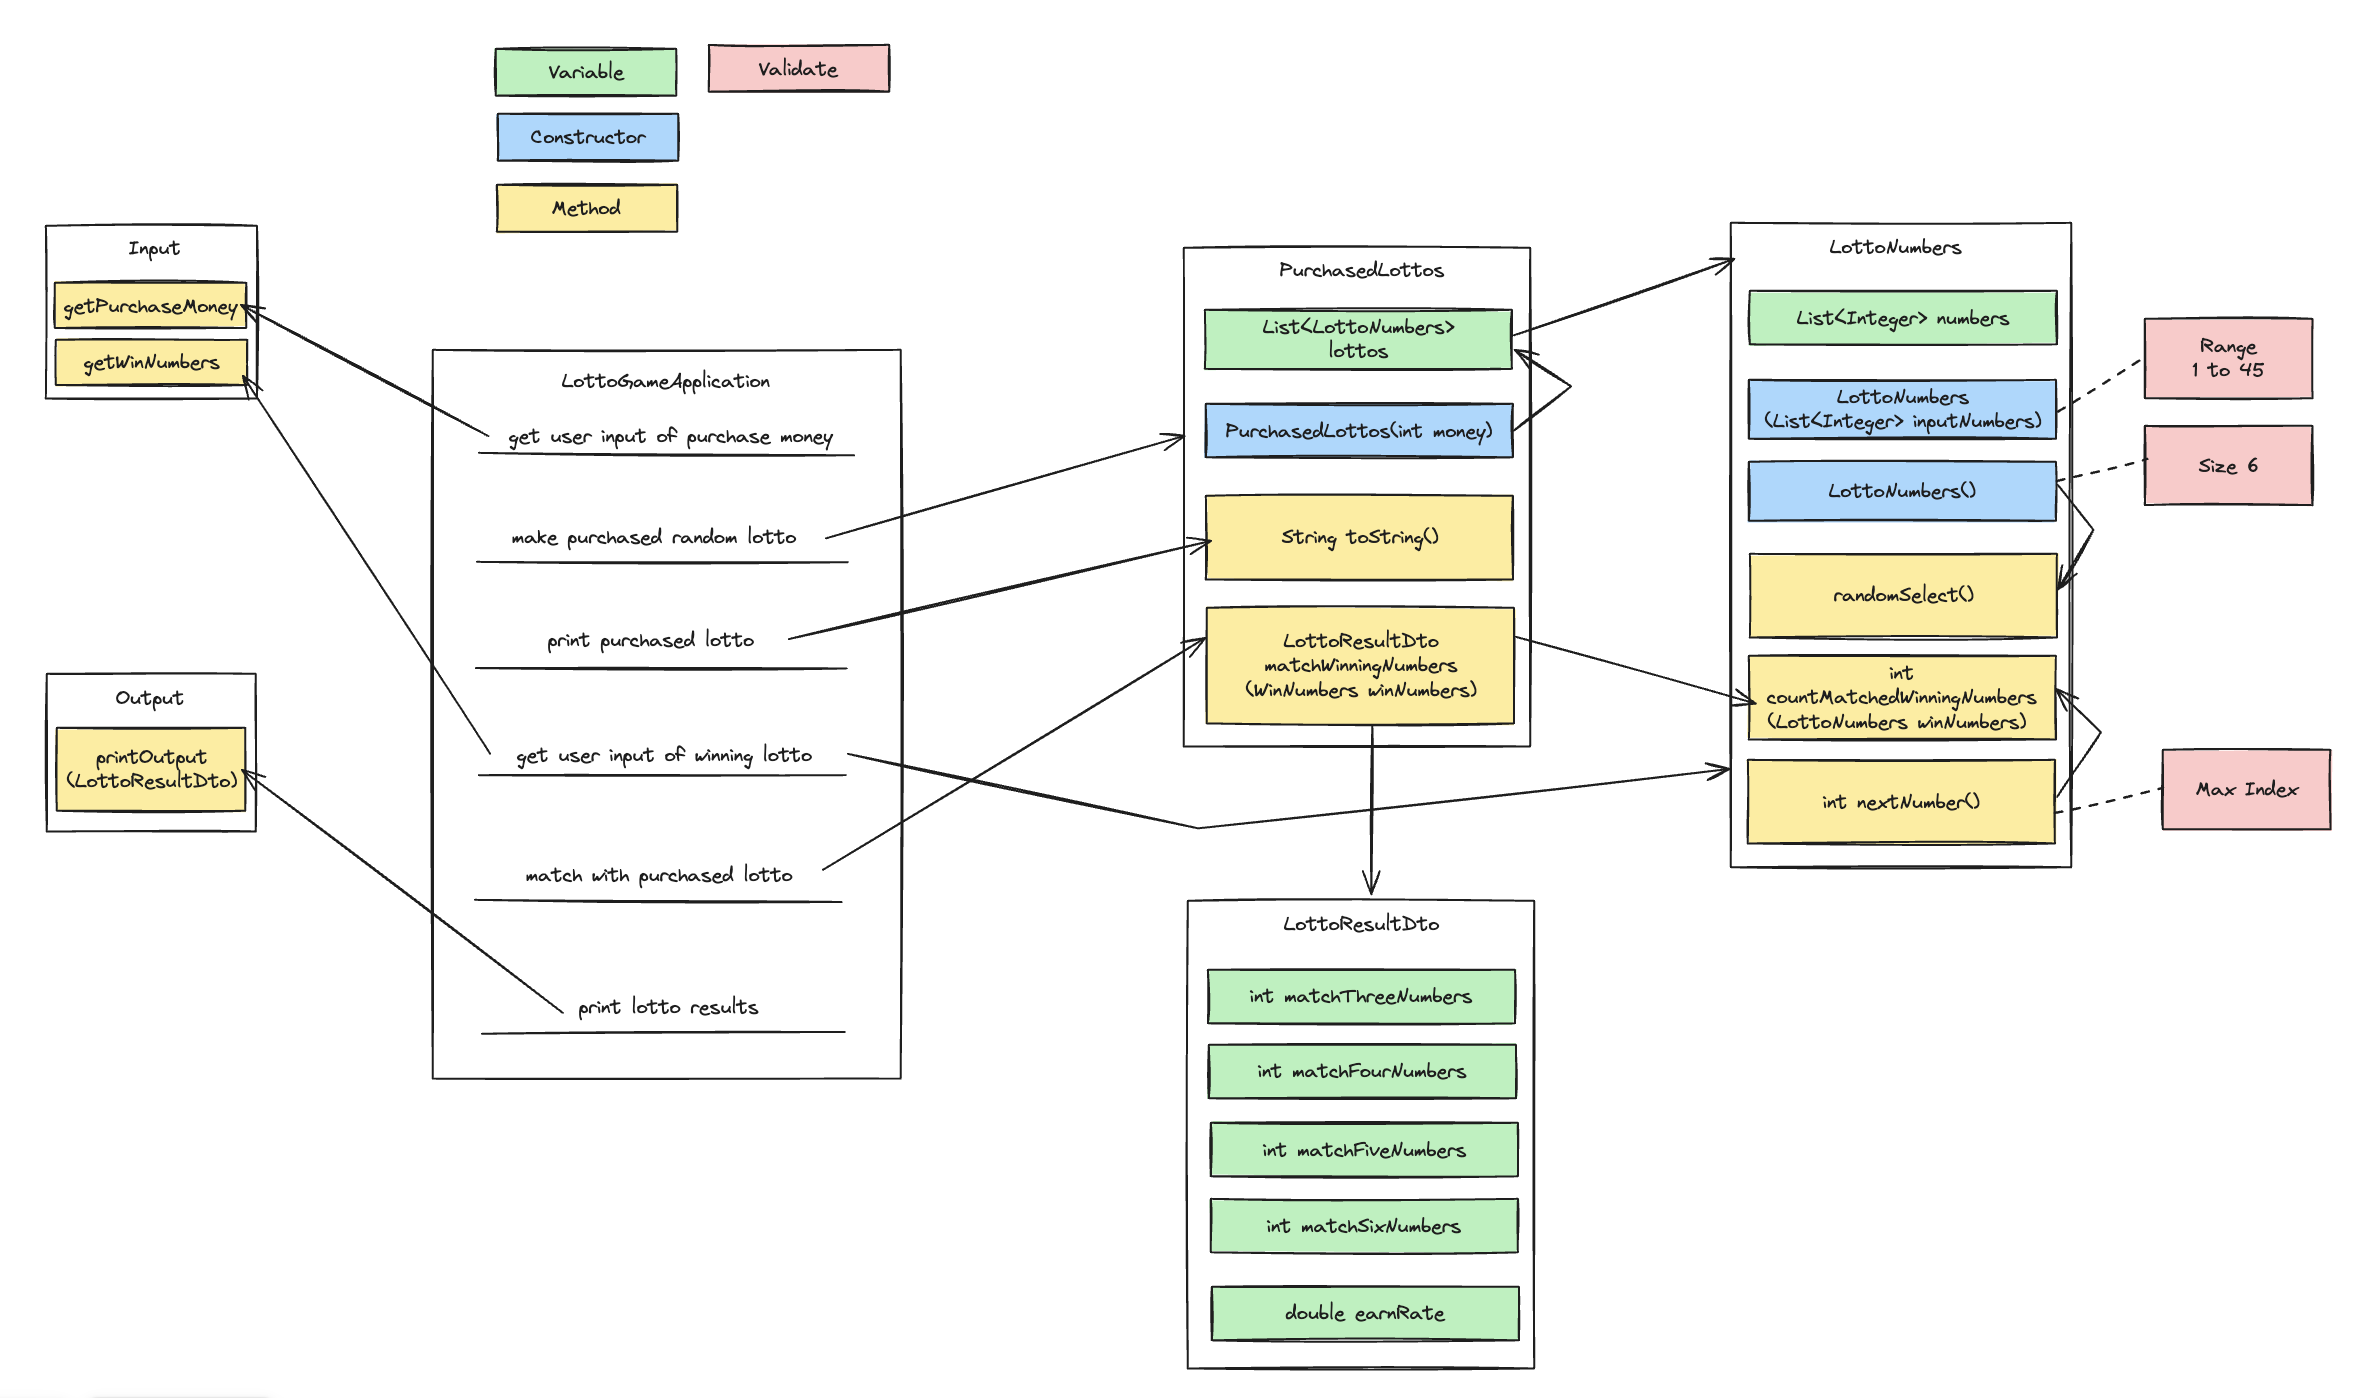
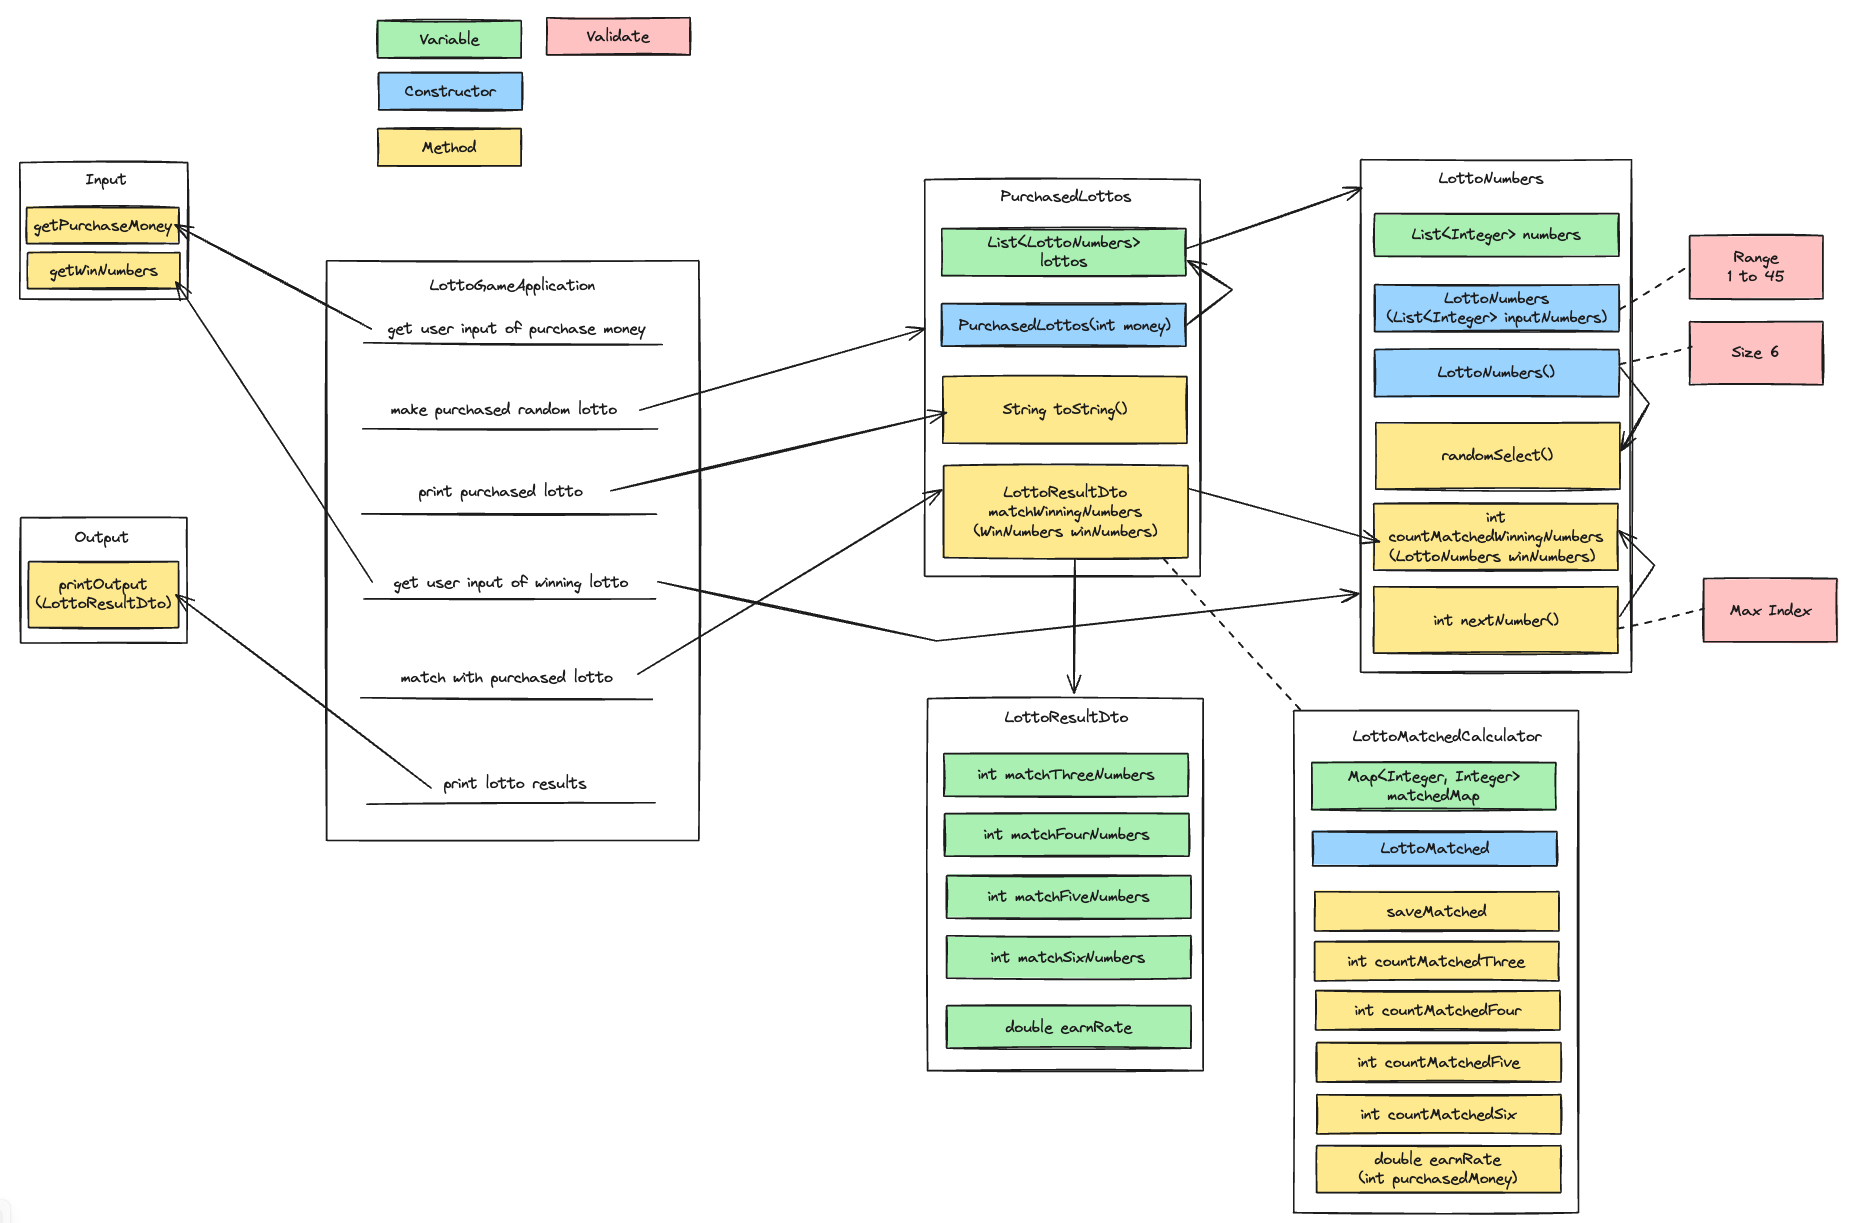
refactor, feat: 기존 코드 리팩토링, LottoMatchedCalculator 기능 추가

diff --git a/src/main/java/lotto/domain/LottoNumbers.java b/src/main/java/lotto/domain/LottoNumbers.java
@@ -1,6 +1,7 @@
 package lotto.domain;
 
 import lotto.Exception.ReachedMaxIndexException;
+import lotto.util.ConstUtils;
 
 import java.util.ArrayList;
 import java.util.List;
@@ -9,10 +10,17 @@ import java.util.stream.Stream;
 
 public class LottoNumbers {
 
-    public static final int MAXIMUM_LOTTO_RANGE = 45;
-    public static final int MINIMUM_LOTTO_RANGE = 1;
     private final List<Integer> lottoNumbers;
     private int currentIndex = 0;
+
+    public LottoNumbers() {
+        this.lottoNumbers = new ArrayList<>();
+
+        Random random = new Random();
+        for (int i = 0; i < 6; i++) {
+            lottoNumbers.add(selectLottoNumber(random));
+        }
+    }
 
     public LottoNumbers(List<Integer> manualNumbers) {
         manualNumbers.forEach(this::validateLottoNumberRange);
@@ -20,55 +28,57 @@ public class LottoNumbers {
         this.lottoNumbers = manualNumbers;
     }
 
-    public LottoNumbers() {
-        lottoNumbers = new ArrayList<>();
-
-        Random random = new Random();
-        for (int i = 0; i < 6; i++) {
-            lottoNumbers.add(random.nextInt(MAXIMUM_LOTTO_RANGE) + 1);
+    public int nextNumber() {
+        if (isOutOfIndexOfLottoNumbers()) {
+            throw new ReachedMaxIndexException();
         }
+        return lottoNumbers.get(this.currentIndex++);
+    }
+
+    public int countMatchedWinningNumbers(LottoNumbers winningNumbers) {
+        winningNumbers.scanReset();
+        int matchCount = 0;
+
+        for (int i = 0; i < 6; i++) {
+            int winningNumber = winningNumbers.nextNumber();
+            matchCount += matchesLottoNumber(winningNumber);
+        }
+
+        return matchCount;
     }
 
     public Stream<Integer> stream() {
         return lottoNumbers.stream();
     }
 
-    public int nextNumber() {
-        if (isOutOfIndexOfLottoNumbers()) {
-            throw new ReachedMaxIndexException();
-        }
-        return lottoNumbers.get(currentIndex++);
-    }
-
     public void scanReset() {
         this.currentIndex = 0;
     }
 
-    private boolean isOutOfIndexOfLottoNumbers() {
-        return currentIndex == lottoNumbers.size();
+    @Override
+    public String toString() {
+        return this.lottoNumbers.toString();
     }
 
-    public int countMatchedWinningNumbers(LottoNumbers winningNumbers) {
-        int matchCount = 0;
-
-        for (int i = 0; i < 6; i++) {
-            int winningNumber = winningNumbers.nextNumber();
-            if (lottoNumbers.contains(winningNumber)) {
-                matchCount++;
-            }
-        }
-
-        return matchCount;
+    private int selectLottoNumber(Random random) {
+        return random.nextInt(ConstUtils.MAXIMUM_LOTTO_RANGE) + 1;
     }
 
     private void validateLottoNumberRange(int number) {
-        if (number < MINIMUM_LOTTO_RANGE || number > MAXIMUM_LOTTO_RANGE) {
+        if (number < ConstUtils.MINIMUM_LOTTO_RANGE || number > ConstUtils.MAXIMUM_LOTTO_RANGE) {
             throw new IllegalArgumentException("유효한 로또 번호가 아닙니다. 1~45 숫자중 입력 해 주세요.");
         }
     }
 
-    @Override
-    public String toString() {
-        return lottoNumbers.toString();
+    private boolean isOutOfIndexOfLottoNumbers() {
+        return currentIndex == this.lottoNumbers.size();
+    }
+
+    private int matchesLottoNumber(int winningNumber) {
+        if (this.lottoNumbers.contains(winningNumber)) {
+            return ConstUtils.MATCHED_COUNT;
+        }
+
+        return ConstUtils.NOT_MATCHED_COUNT;
     }
 }

diff --git a/src/main/java/lotto/domain/PurchasedLotto.java b/src/main/java/lotto/domain/PurchasedLotto.java
@@ -1,62 +1,51 @@
 package lotto.domain;
 
 import lotto.dto.LottoResultDto;
+import lotto.util.ConstUtils;
 
 import java.util.ArrayList;
-import java.util.HashMap;
 import java.util.List;
-import java.util.Map;
 
 public class PurchasedLotto {
 
-    private final List<LottoNumbers> lottos = new ArrayList<>();
+    private final List<LottoNumbers> lottos;
 
     public PurchasedLotto(int purchasedCount) {
+        this.lottos = new ArrayList<>();
+
         for (int i = 0; i < purchasedCount; i++) {
-            lottos.add(new LottoNumbers());
+            this.lottos.add(new LottoNumbers());
         }
     }
 
     public PurchasedLotto(int purchasedCount, List<LottoNumbers> manualLottoNumbers) {
-        if (purchasedCount != manualLottoNumbers.size()) {
-            throw new IllegalArgumentException("구매 개수와 수동 개수가 일치하지 않습니다.");
-        }
+        validatePurchasedAndManualCount(purchasedCount, manualLottoNumbers);
+
+        this.lottos = new ArrayList<>();
 
         for (int i = 0; i < purchasedCount; i++) {
             this.lottos.add(manualLottoNumbers.get(i));
         }
     }
 
-    public int myLottoSize() {
+    public int purchasedLottoSize() {
         return this.lottos.size();
     }
 
     public LottoResultDto matchWinningNumbers(LottoNumbers winningNumbers) {
-        Map<Integer, Integer> matchedCount = new HashMap<>();
-        matchedCount.put(3, 0);
-        matchedCount.put(4, 0);
-        matchedCount.put(5, 0);
-        matchedCount.put(6, 0);
-        double earnRate = 0L;
+        LottoMatchedCalculator lottoMatchedCalculator = new LottoMatchedCalculator();
 
         for (LottoNumbers lotto : this.lottos) {
             int result = lotto.countMatchedWinningNumbers(winningNumbers);
-            winningNumbers.scanReset();
-            matchedCount.put(result, matchedCount.get(result) + 1);
+            lottoMatchedCalculator.saveMatched(result);
         }
 
-        int sum = matchedCount.get(3) * 5000 +
-                matchedCount.get(4) * 50000 +
-                matchedCount.get(5) * 1500000 +
-                matchedCount.get(6) * 2000000000;
-        earnRate = (double) sum / (this.lottos.size() * 1000);
-
         return new LottoResultDto(
-                matchedCount.get(3),
-                matchedCount.get(4),
-                matchedCount.get(5),
-                matchedCount.get(6),
-                earnRate
+                lottoMatchedCalculator.countMatchedThree(),
+                lottoMatchedCalculator.countMatchedFour(),
+                lottoMatchedCalculator.countMatchedFive(),
+                lottoMatchedCalculator.countMatchedSix(),
+                lottoMatchedCalculator.earnRate(purchasedLottoPrice())
         );
     }
 
@@ -65,5 +54,15 @@ public class PurchasedLotto {
         StringBuffer stringBuffer = new StringBuffer();
         lottos.forEach(lotto -> stringBuffer.append(lotto.toString()).append("\n"));
         return stringBuffer.toString();
+    }
+
+    private static void validatePurchasedAndManualCount(int purchasedCount, List<LottoNumbers> manualLottoNumbers) {
+        if (purchasedCount != manualLottoNumbers.size()) {
+            throw new IllegalArgumentException("구매 개수와 수동 개수가 일치하지 않습니다.");
+        }
+    }
+
+    private int purchasedLottoPrice() {
+        return this.lottos.size() * ConstUtils.LOTTO_WON_UNIT;
     }
 }

diff --git a/src/main/java/lotto/domain/LottoMatchedCalculator.java b/src/main/java/lotto/domain/LottoMatchedCalculator.java
@@ -1,0 +1,49 @@
+package lotto.domain;
+
+import lotto.util.ConstUtils;
+
+import java.util.HashMap;
+import java.util.Map;
+
+public class LottoMatchedCalculator {
+
+    private final Map<Integer, Integer> matchedMap = new HashMap<>();
+
+    public LottoMatchedCalculator() {
+        this.matchedMap.put(ConstUtils.MATCHED_THREE, ConstUtils.NOTHING_MATCHED);
+        this.matchedMap.put(ConstUtils.MATCHED_FOUR, ConstUtils.NOTHING_MATCHED);
+        this.matchedMap.put(ConstUtils.MATCHED_FIVE, ConstUtils.NOTHING_MATCHED);
+        this.matchedMap.put(ConstUtils.MATCHED_SIX, ConstUtils.NOTHING_MATCHED);
+    }
+
+    public void saveMatched(int matched) {
+        this.matchedMap.replace(matched, this.matchedMap.get(matched) + 1);
+    }
+
+    public int countMatchedThree() {
+        return this.matchedMap.get(ConstUtils.MATCHED_THREE);
+    }
+
+    public int countMatchedFour() {
+        return this.matchedMap.get(ConstUtils.MATCHED_FOUR);
+    }
+
+    public int countMatchedFive() {
+        return this.matchedMap.get(ConstUtils.MATCHED_FIVE);
+    }
+
+    public int countMatchedSix() {
+        return this.matchedMap.get(ConstUtils.MATCHED_SIX);
+    }
+
+    public double earnRate(int purchasedMoney) {
+        return this.winningMoney() / purchasedMoney;
+    }
+
+    private double winningMoney() {
+        return this.countMatchedThree() * ConstUtils.WIN_THREE +
+                this.countMatchedFour() * ConstUtils.WIN_FOUR +
+                this.countMatchedFive() * ConstUtils.WIN_FIVE +
+                this.countMatchedSix() * ConstUtils.WIN_SIX;
+    }
+}

diff --git a/src/main/java/lotto/util/ConstUtils.java b/src/main/java/lotto/util/ConstUtils.java
@@ -1,0 +1,23 @@
+package lotto.util;
+
+public class ConstUtils {
+
+    public static final int NOTHING_MATCHED = 0;
+    public static final int MATCHED_THREE = 3;
+    public static final int MATCHED_FOUR = 4;
+    public static final int MATCHED_FIVE = 5;
+    public static final int MATCHED_SIX = 6;
+
+    public static final int WIN_THREE = 5000;
+    public static final int WIN_FOUR = 50000;
+    public static final int WIN_FIVE = 1500000;
+    public static final int WIN_SIX = 2000000000;
+
+    public static final int LOTTO_WON_UNIT = 1000;
+
+    public static final int MAXIMUM_LOTTO_RANGE = 45;
+    public static final int MINIMUM_LOTTO_RANGE = 1;
+
+    public static final int MATCHED_COUNT = 1;
+    public static final int NOT_MATCHED_COUNT = 0;
+}

diff --git a/src/test/java/lotto/domain/PurchasedLottoTest.java b/src/test/java/lotto/domain/PurchasedLottoTest.java
@@ -19,7 +19,7 @@ class PurchasedLottoTest {
         PurchasedLotto purchasedLotto = new PurchasedLotto(purchasedCount);
 
         // when
-        int lottoSize = purchasedLotto.myLottoSize();
+        int lottoSize = purchasedLotto.purchasedLottoSize();
 
         // then
         assertThat(lottoSize).isEqualTo(18);

diff --git a/src/main/java/lotto/README.md b/src/main/java/lotto/README.md
@@ -50,8 +50,13 @@
 - [x] 우승번호를 검증하여 DTO로 반환해준다.
 - [x] 결과를 String으로 반환한다(`toString()`)
 
-#### LottoResultDto
+#### Domain - LottoMatched
+- Lotto 결과 계산을 위해 사용
+
+#### LottoResultDtoCalculator
 - 로또 게임 결과 반환 Dto
+- [x] 각 매칭 숫자 결과를 반환
+- [x] 수익률 계산
 
 #### LottoGameApplication
 - `main` 메서드가 있는 클래스
